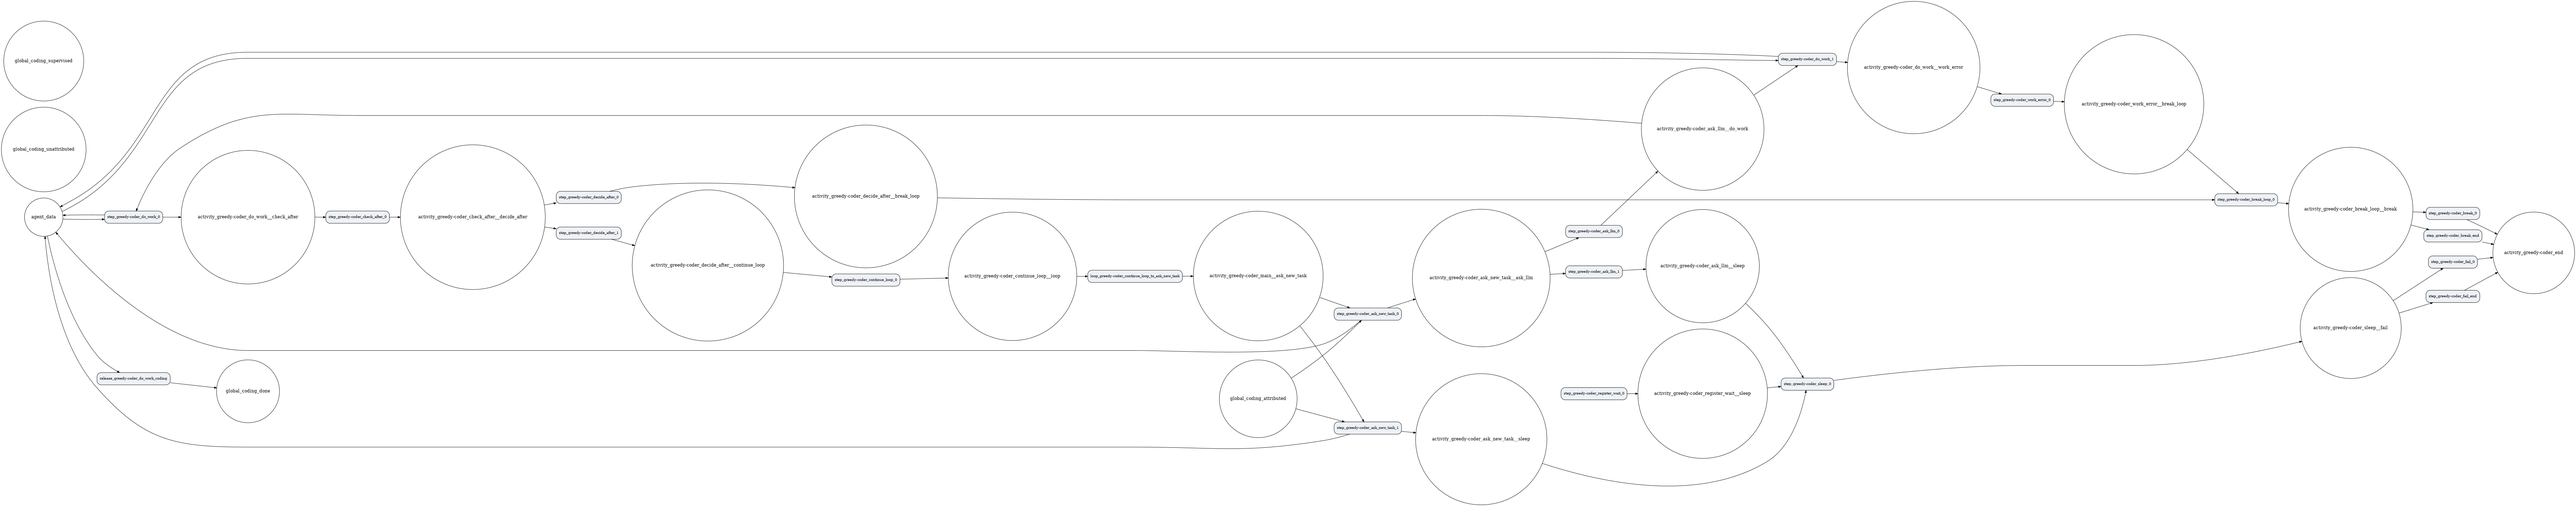
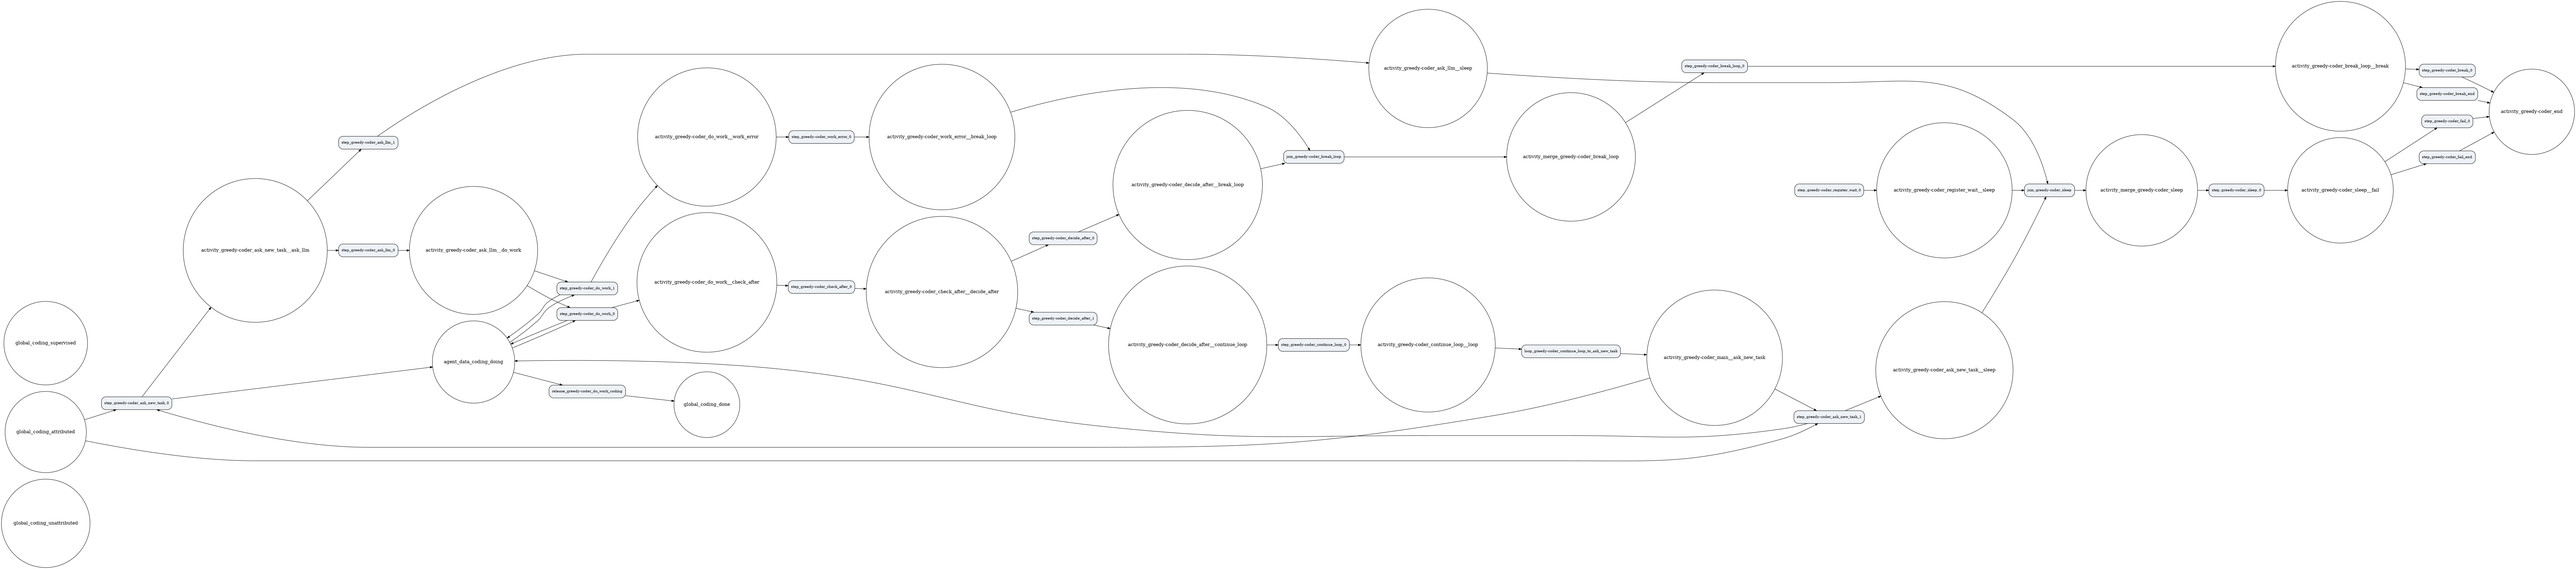
feat(diag): pot interne typé agent_data_<type>_doing + merges (places de jonction) + règle d'activité
- agent_data → agent_data_<type>_doing (ex. agent_data_coding_doing pour le coder).
- MERGES : les steps à plusieurs prédécesseurs reçoivent une place de jonction
  (activity_merge_<nid>) + transition join → chaque step a exactement 1 entrée
  activité.
- --check : règle de validité (chaque transition de step : 1 entrée + 1 sortie
  activité). Reste 1 violation connue : register_wait orphelin (bug du
  yaml_to_fsm : break ne le relie pas).

diff --git a/services/taskflow_petri.py b/services/taskflow_petri.py
@@ -62,12 +62,14 @@ class Petri:
         self.types = types
         self.places: Dict[str, int] = {}   # nom → marquage initial
         self.transitions: List[Dict[str, Any]] = []
-        # Pot INTERNE : la tâche de l'agent (≤ 1 jeton).
-        self.places["agent_data"] = 0
         # Pots EXTERNES (globaux) : un pot par type×état.
         for t in types:
             for et in ETATS:
                 self.places[f"global_{t}_{et}"] = 0
+        # Pot INTERNE (agent) : un pot par type×état (la tâche en cours).
+        # ex. agent_data_coding_doing — le greedy-coder qui code.
+        for t in types:
+            self.places[f"agent_data_{t}_doing"] = 0
 
     def place(self, name: str) -> None:
         if name not in self.places:
@@ -203,6 +205,16 @@ def build_from_yaml(path: Path, agent_name: str = "") -> Dict[str, Any]:
         if t:
             ins_by_node.setdefault(t, []).append(p)
         outs_by_node.setdefault(f, []).append(p)
+
+    # MERGES : un step avec PLUSIEURS prédécesseurs reçoit UNE place de jonction
+    # (les chemins y convergent) → la transition du step a exactement 1 entrée
+    # activité. Une transition join_<nid> : chemins → activity_merge_<nid>.
+    for nid, in_list in list(ins_by_node.items()):
+        if len(in_list) > 1:
+            merge_p = f"activity_merge_{name}_{nid}"
+            net.place(merge_p)
+            net.trans(f"join_{name}_{nid}", in_list, [merge_p], "join")
+            ins_by_node[nid] = [merge_p]
     for n in nodes:
         nid = n.get("id", "")
         if nid == "main":
@@ -212,13 +224,17 @@ def build_from_yaml(path: Path, agent_name: str = "") -> Dict[str, Any]:
         tk, tk_types = token_class.get(nid, ("normal", []))
         # data_in / data_out selon la classe de jeton (le step manipule les pots)
         d_in, d_out = [], []
+        agent_types = sorted(consumes) if consumes else (tk_types or [])
+        if not agent_types:
+            agent_types = (tk_types if tk in ("produce", "pick") else ["analysis"])
         if tk == "pick":
             for t in (tk_types or ["analysis"]):
                 d_in.append(f"global_{t}_attributed")
-                d_out.append("agent_data")
+                d_out.append(f"agent_data_{t}_doing")
         elif tk in ("release", "produce", "use"):
-            d_in.append("agent_data")
-            d_out.append("agent_data")  # l'utilisation prend ET remet la data
+            for t in (agent_types or ["analysis"]):
+                d_in.append(f"agent_data_{t}_doing")
+                d_out.append(f"agent_data_{t}_doing")  # l'utilisation prend ET remet
         elif tk == "data":
             in_et, out_et, mode = (tk_types or ["", "", "single"])
             if mode == "all":
@@ -237,15 +253,15 @@ def build_from_yaml(path: Path, agent_name: str = "") -> Dict[str, Any]:
             lbl = f"{tk}->{i + 1}" if len(sorties) > 1 else tk
             net.trans(f"step_{name}_{nid}_{i}", tins, touts, lbl)
         # Les CHANGEMENTS d'état de jeton (release/produce) : transitions
-        # séparées (agent_data → global_<etat>).
+        # séparées (agent_data_<type>_doing → global_<etat>).
         if tk == "release":
             for t in sorted(consumes or ["analysis"]):
-                net.trans(f"release_{name}_{nid}_{t}", ["agent_data"],
+                net.trans(f"release_{name}_{nid}_{t}", [f"agent_data_{t}_doing"],
                           [f"global_{t}_done"], "release")
         elif tk == "produce":
             for t in (tk_types or []):
-                net.trans(f"produce_{name}_{nid}_{t}", ["agent_data"],
-                          ["agent_data", f"global_{t}_unattributed"], "produce")
+                net.trans(f"produce_{name}_{nid}_{t}", [f"agent_data_{t}_doing"],
+                          [f"agent_data_{t}_doing", f"global_{t}_unattributed"], "produce")
 
     # Reliage de la BOUCLE : la place loop (arc vers vide) alimente le corps.
     for e in edges:
@@ -403,6 +419,23 @@ def team_global_petri(path: Path, rules: List[Dict[str, Any]] = ()) -> Petri:
     return merged
 
 
+def check_activity_rule(petri: Petri) -> List[Dict[str, Any]]:
+    """Règle de validité : toute transition de STEP doit avoir exactement
+    UNE entrée activité et UNE sortie activité (les places de data sont en
+    plus). Les transitions data pures (release/produce) et de contrôle
+    (loop/end) sont exemptes."""
+    violations: List[Dict[str, Any]] = []
+    for t in petri.transitions:
+        if not t["name"].startswith("step_"):
+            continue
+        n_in = sum(1 for p in t["in"] if p.startswith("activity_"))
+        n_out = sum(1 for p in t["out"] if p.startswith("activity_"))
+        if n_in != 1 or n_out != 1:
+            violations.append({"transition": t["name"],
+                               "in_activity": n_in, "out_activity": n_out})
+    return violations
+
+
 def main() -> None:
     ap = argparse.ArgumentParser(description="YAML → Pétri du taskflow")
     ap.add_argument("yaml", help="fichier .team.yaml ou .agent.yaml")
@@ -412,6 +445,8 @@ def main() -> None:
                     help="pétri GLOBAL de la team (agents + superviseur fusionnés)")
     ap.add_argument("--verify", action="store_true",
                     help="vérifier le pétri (pm4py : reachability de supervised)")
+    ap.add_argument("--check", action="store_true",
+                    help="vérifier la règle d'activité (1 entrée + 1 sortie activité/step)")
     ap.add_argument("--png", default="", help="sauvegarder le pétri en PNG")
     args = ap.parse_args()
     path = Path(args.yaml)
@@ -422,6 +457,19 @@ def main() -> None:
             res = build_from_yaml(path, args.agent)
             out = save_petri_png(res["petri"], args.png)
         print(f"PNG sauvegardé : {out}")
+        return
+    if args.check:
+        if args.team or args.team_petri:
+            petri = team_global_petri(path)
+        else:
+            petri = build_from_yaml(path, args.agent)["petri"]
+        v = check_activity_rule(petri)
+        if v:
+            print(f"VIOLATIONS ({len(v)}) :")
+            for x in v[:20]:
+                print(f"  {x['transition']}: {x['in_activity']} in / {x['out_activity']} out activité")
+        else:
+            print("OK : toutes les transitions de step ont exactement 1 entrée + 1 sortie activité")
         return
     if args.team:
         res = build_team_petri(path)
